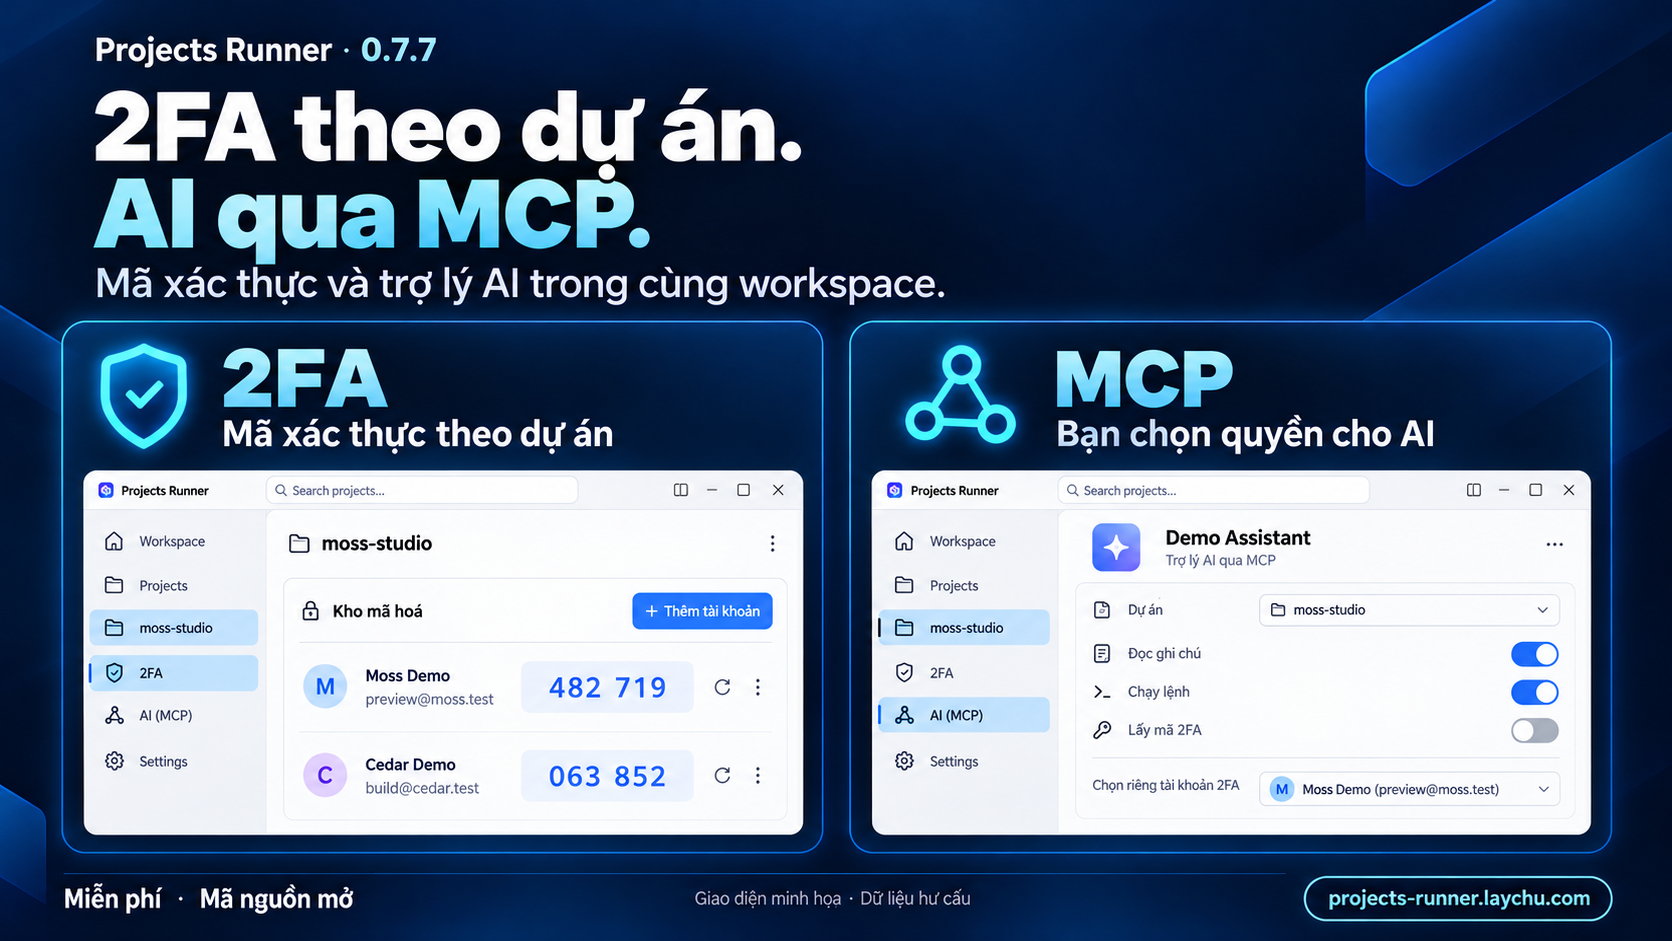
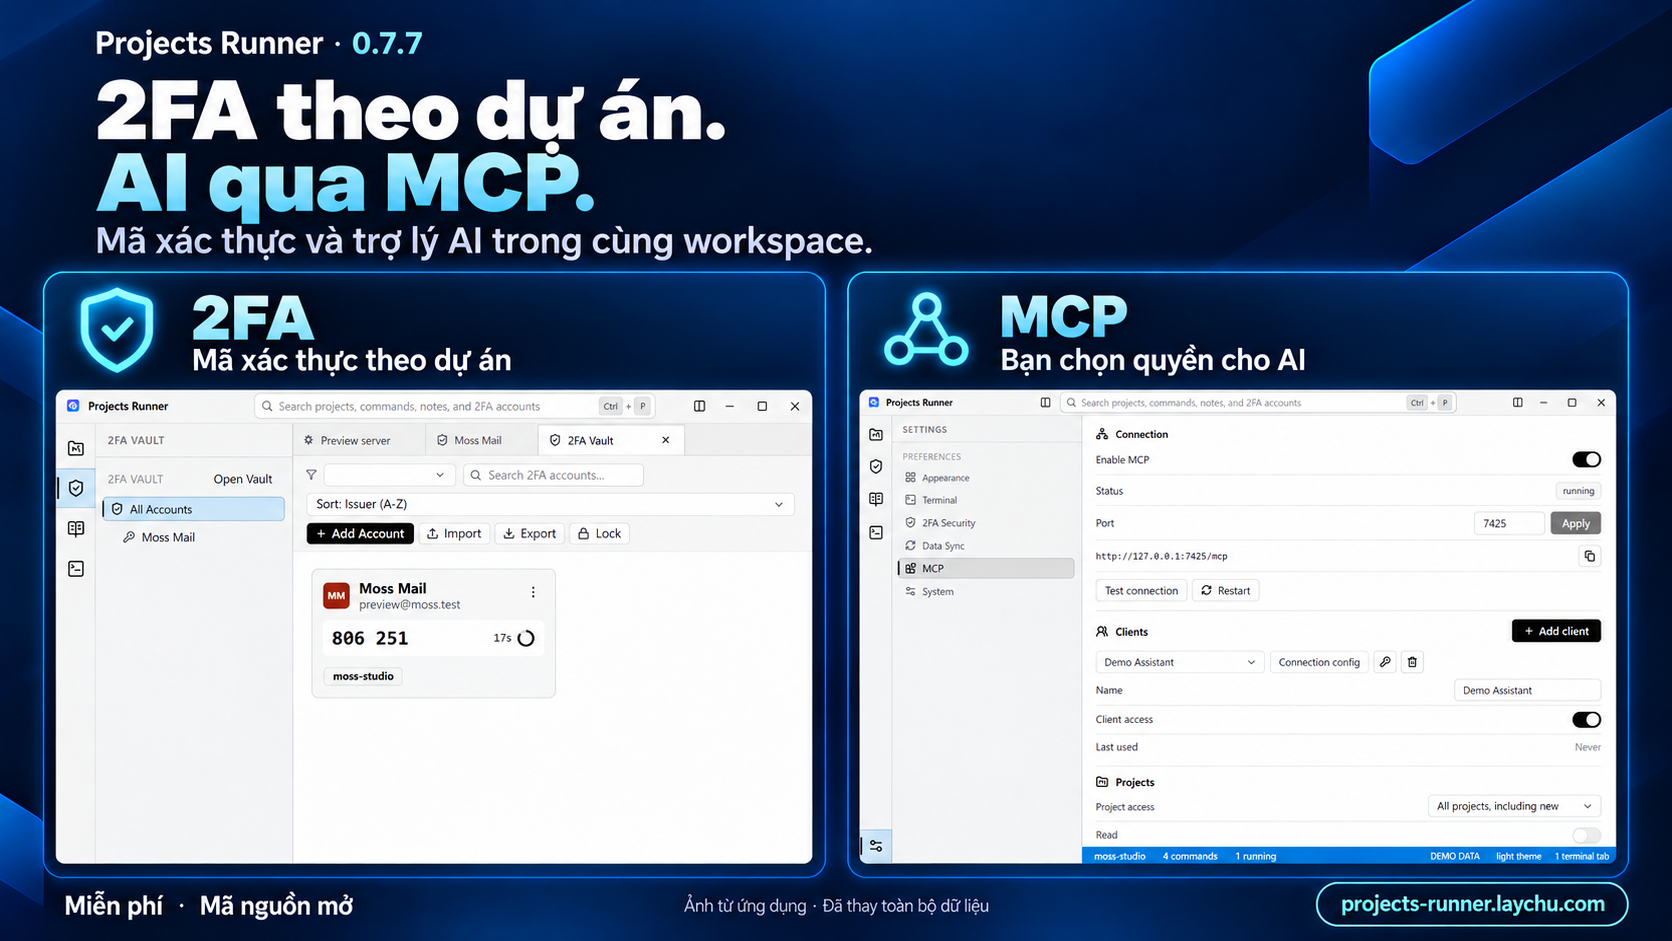
Use screenshot layouts with fictional data in release images

diff --git a/marketing/0.7.7/image-prompts-v3.md b/marketing/0.7.7/image-prompts-v3.md
@@ -1,0 +1,26 @@
+# Screenshot-based image revision
+
+Created with the built-in image generation tool. The app views are edited from actual screenshots to retain the original layout, controls, icon rail, light theme, and Settings sidebar. Every user-specific field has been replaced with fictional demo data. These are AI-edited images, not unaltered captures or evidence of a real account or connection.
+
+Only sanitized images are included here. Original desktop captures remain outside the repository. Source-specific identifiers in the prompt archive below have been replaced with placeholders.
+
+## 2FA screenshot edit
+
+Use case: text-localization. Edit the supplied actual Projects Runner desktop screenshot for privacy. Preserve screenshot dimensions, every pixel of layout geometry, window chrome, flat white and light-gray surfaces, icons, the narrow icon-only activity rail, the width of the vault sidebar, tab bar, input fields, existing issuer card shape, black Add Account button, Import Export Lock controls, sorting bar, typography sizes, blue bottom status bar. DO NOT redesign, modernize, simplify, add navigation text, add elements, or change the theme. Replace ALL user-specific data and every black redaction block with entirely fictional demo values in the SAME location, matching original text style: project name everywhere 'moss-studio'; issuer name 'Moss Mail'; account 'preview@moss.test'; issuer avatar initials 'MM'; OTP sample '806 251' instead of the original digits; countdown '17s'; project tag 'moss-studio'; first top tab 'Preview server'; second top tab 'Moss Mail'; active tab remains '2FA Vault'. Sidebar account entry becomes 'Moss Mail'. Bottom left project status becomes 'moss-studio   4 commands   1 running'. Bottom right keep light theme, replace terminal count with '1 terminal tab'. Remove cursor, click glow, green capture outline. Keep generic UI labels verbatim in English (2FA VAULT, Open Vault, All Accounts, Search 2FA accounts..., Sort: Issuer (A-Z), Add Account, Import, Export, Lock, Terminal, Environments, All terminals). Do not carry over any original user-specific names, project names, email, paths, account initials, code, count or redaction block. Keep blank areas blank. Add a small unobtrusive blue-footer text 'DEMO DATA' without changing the app layout. No seeds, QR codes, passwords or new logos. This is a screenshot data substitution, not a new UI mockup.
+
+## MCP screenshot edit
+
+Use case: text-localization. Edit the supplied actual Projects Runner MCP settings screenshot for privacy. Retain its exact 1202x762 screenshot composition: thin title/search strip, narrow icon-only activity rail, gray SETTINGS sidebar with Appearance, Terminal, 2FA Security, Data Sync, MCP selected, System; white main panel with flat row dividers, small black/white switches, actual Connection, Clients and Projects sections. Preserve every control location, spacing, input outline, icon, font size, black Add client button, empty space, blue status bar. DO NOT redesign, turn rows into cards, translate generic English UI, add project navigation, add labels or create invented UI. Replace only fictional demo data: BOTH client-name values 'Codex' become 'Demo Assistant'; port value '6811' becomes '7425'; endpoint becomes 'http://127.0.0.1:7425/mcp'; bottom left project '[original project name]' becomes 'moss-studio', '2 commands' becomes '4 commands', '0 running' becomes '1 running'; bottom right '0 terminal tabs' becomes '1 terminal tab'. Generic running, Never, and All projects including new remain as current control values. Remove cursor, blue click halo and green capture outline. No original personal/project info remains. No tokens, keys, passwords, QR codes or real user data. Add small unobtrusive 'DEMO DATA' in the blue footer. Pixel-faithful screenshot data substitution only.
+
+## Poster composition
+
+Use case: compositing. Replace only the two invented UI mockup panels in image 1 with the authentic-layout screenshots from images 2 and 3. Image 1 is the EDIT TARGET, keep its navy/cyan brand treatment and exact Vietnamese marketing wording. Image 2 is the already anonymized real 2FA screenshot; image 3 is the already anonymized real MCP Settings screenshot. Treat screenshots 2 and 3 as locked flat image assets: paste them faithfully, scale uniformly only, no repainting, no reflowing, no rearrangement, no rounded card replacements, no altered theme, no new UI or new navigation, no invented labels. Preserve screenshot rail, sidebars, tabs, black buttons, black/white toggles, fine gray dividers, fonts and data exactly. Data visible in image2 must stay Moss Mail, preview@moss.test, 806 251, moss-studio. Data in image3 stays Demo Assistant, port 7425, http://127.0.0.1:7425/mcp, moss-studio. Do not add any other account, project, OTP, token, personal data. Preserve the original screenshots' flat white and light-gray desktop UI. It is acceptable to crop the bottom blank white portion of 2FA to enlarge its card, but never change its UI structure. Both 2FA and MCP headings remain large and clear outside the screenshots. The screenshot of MCP must genuinely show SETTINGS sidebar with MCP selected, Connection section and Clients section; do not replace it with an invented simplified permission screen. Reduce decorative graphics and headline area as needed to give the screenshots more room.
+Exact marketing text: 'Projects Runner · 0.7.7'; headline '2FA theo dự án.' and 'AI qua MCP.'; subtitle 'Mã xác thực và trợ lý AI trong cùng workspace.'; feature labels '2FA' with 'Mã xác thực theo dự án', and 'MCP' with 'Bạn chọn quyền cho AI'. Footer exact 'Ảnh từ ứng dụng · Đã thay toàn bộ dữ liệu', 'Miễn phí · Mã nguồn mở', 'projects-runner.laychu.com'. No claims that the screenshot data is real. Accurate Vietnamese accents. The app UI must look like the supplied original screenshots, not a concept mockup.
+
+### Landscape
+
+16:9. Two large screenshots side by side, 2FA left and MCP right. Preserve screenshot proportions; compact headline, screenshots dominate.
+
+### Portrait
+
+4:5. Two large screenshots stacked, 2FA above MCP. Full-width screenshots, small external feature headings, no oversized icon column.

diff --git a/marketing/0.7.7/README.md b/marketing/0.7.7/README.md
@@ -19,7 +19,9 @@ Use `threads.txt` with `threads.png`. The post is prepared for manual publishing
 
 The overview image in `public/projects-runner-077-demo.png`, the feature image in `public/projects-runner-077-features.png`, and the Threads poster use fictional data throughout. They are illustrations, not evidence of running the app. Original project names, paths, scripts, file lists, sizes, counts, and dates have been replaced. The images disclose demo data.
 
-The current feature image and Threads poster prominently show 2FA and MCP, with an explicit fictional-data disclosure. Their generation prompts are in `image-prompts-v2.md`. The older prompts below record the initial release assets.
+The current feature image and Threads poster use the actual screenshot layouts, with all user-specific data replaced. The flat light theme, activity rail, vault sidebar, Settings sidebar, tabs, rows, and controls are retained. The edited source images are `public/projects-runner-077-2fa-demo.png` and `public/projects-runner-077-mcp-demo.png`. Raw desktop captures are kept outside the repository.
+
+The latest screenshot edits and composition prompts are in `image-prompts-v3.md`; source-specific identifiers are removed from that archive. `image-prompts-v2.md` and the prompts below record earlier assets. The screenshot-based replacement images are prepared in the existing Unikorn edit forms and await confirmation before saving publicly.
 
 Created with the built-in image generation tool. Final edit prompts:
 
